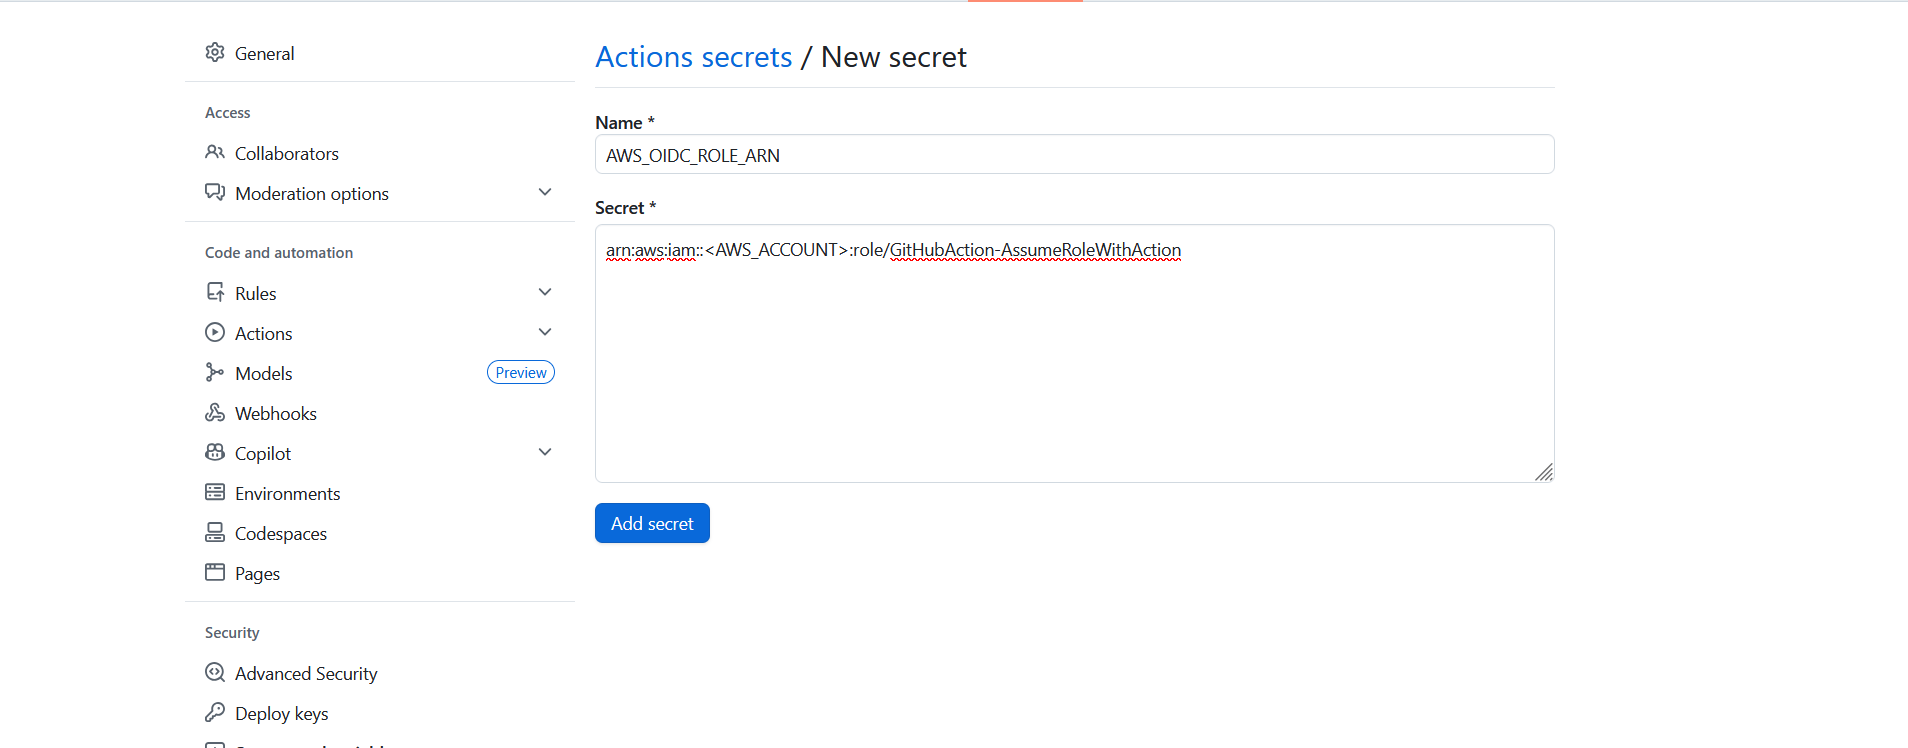
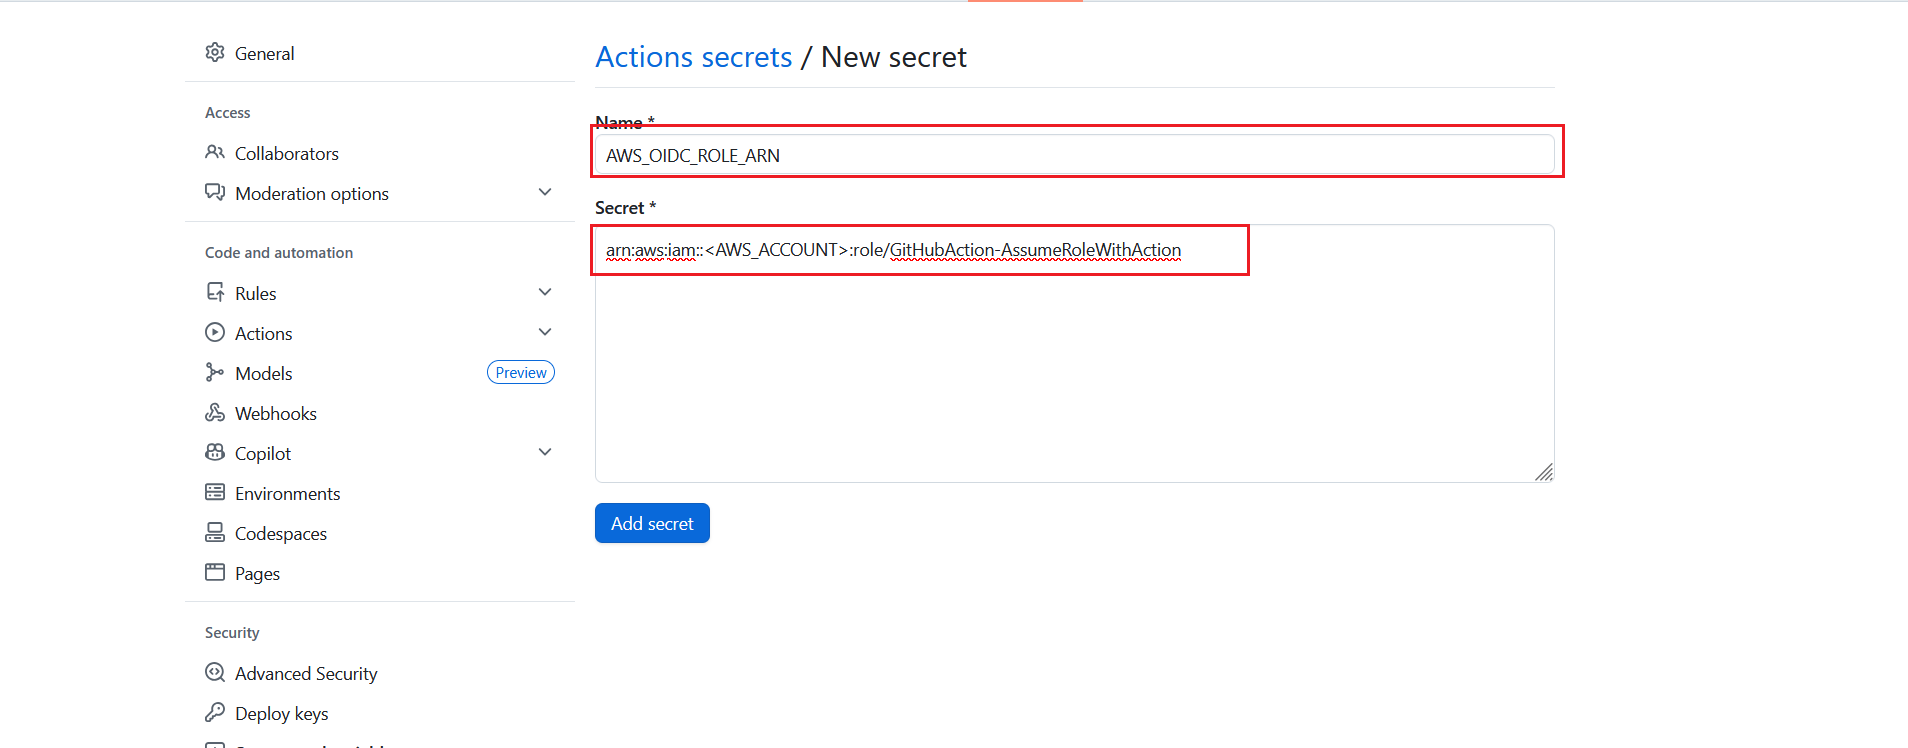
Update README with code formatting, additional images, and role ARN details for OIDC setup

diff --git a/README.md b/README.md
@@ -44,12 +44,13 @@ In this step,  you will setup the OpenID Provider which is GitHub to AWS.  We 
 if you don't have Github orgization you can use [Creating a new organization from scratch](https://docs.github.com/en/organizations/collaborating-with-groups-in-organizations/creating-a-new-organization-from-scratch)  to create one.
 
 3. On the Permissions page, search for `AmazonS3FullAccess` and select it  for this demo and select next to continue
-4.  In the next step enter  a role name, for this demo, enter GitHubAction-AssumeRoleWithAction. You can optionally add a description. Review and click create role. 
+4.  In the next step enter  a role name, for this demo, enter `GitHubAction-AssumeRoleWithAction`. You can optionally add a description. Review and click create role. 
   ![Create an IAM role with a trust policy that allows GitHub Actions to assume the role](/images/role-1.png)
 
 
 ### **Step 3:** Create a trust policy conditions to restrict access by repository, branch, or environment
-1. In the IAM console,  select the newly created role and choose Trust relationship tab and select edit trust policy.
+1. In the IAM console,  select the newly created role and choose Trust relationship tab and select edit trust policy. 
+2. Copy and paste this policy in editor and save the changes. 
 ```bash
 {
 	"Version": "2012-10-17",
@@ -57,7 +58,7 @@ if you don't have Github orgization you can use [Creating a new organization fro
 		{
 			"Effect": "Allow",
 			"Principal": {
-				"Federated": "arn:aws:iam::<AWS_ACCOUNT_ID>:oidc-provider/token.actions.githubusercontent.com"
+				"Federated": "arn:aws:iam::650251710981:oidc-provider/token.actions.githubusercontent.com"
 			},
 			"Action": "sts:AssumeRoleWithWebIdentity",
 			"Condition": {
@@ -72,21 +73,23 @@ if you don't have Github orgization you can use [Creating a new organization fro
 	]
 }
 ```
-save the changes. 
+
 
 ### **Step 4:Optional:** You can attach more permissions policies to the IAM role defining what AWS actions are allowed using the  least privilege principle.  
 
 ### **Step 5:**  Add the IAM Role  ARN  to GitHub repository as  secrets
-1. In your Github Account reate a repo or select and existing repo that you want to us . The repo i am using is  "Zero-Trust CI/CD: Using OIDC to Authenticate GitHub Actions to AWS".
+- 1. In your Github Account create a repo or select and existing repo that you want to us . The repo i am using is  "Zero-Trust CI/CD: Using OIDC to Authenticate GitHub Actions to AWS".
+![Add role ARN as github secrete step 1](/images/10.png)
 
-2. Select the repo settings  and  in the left menu and  select Secretes and variables. Choose Actions in the sub menu and click on the create new repositoy secret buttom. Add these details
+- 2. Select the repo settings  and  , in the left menu  select Secretes and variables. Choose Actions in the sub menu and click on  `New repositoy secret` buttom. Add these details
 Name: AWS_OIDC_ROLE_ARN
 Secret: arn:aws:iam::<AWS_ACCOUNT_ID>:role/GitHubAction-AssumeRoleWithAction. copy the role ARN and add it as a secrete. Your are now ready to use in in your workflows
+![Add role ARN as github secrete step 2](/images/11.png)
 
 ### **Step 6:**  Create a  workflow to use the role ARN and specify the AWS region
 In this next step, we will   validate the integration of OIDC with AWS. To do this we will create a workflow. Create this workflow 
 
-.github/workflows/create-s3-bucket.yml
+`.github/workflows/create-s3-bucket.yml`
 
 ```bash
 name: Create S3 Bucket with OIDC
@@ -95,28 +98,33 @@ on:
   workflow_dispatch:
 
 permissions:
-  id-token: write   # REQUIRED for OIDC
+  id-token: write
   contents: read
+  pull-requests: write
+  security-events: write
 
 jobs:
   create-bucket:
     runs-on: ubuntu-latest
 
     steps:
-      - name: Configure AWS credentials using OIDC
-        uses: aws-actions/configure-aws-credentials@v4
+      - name: Configure AWS credentials
+        uses: aws-actions/configure-aws-credentials@v5.1.0
         with:
-          role-to-assume: ${{ secrets.AWS_OIDC_ROLE_ARN }}
+          role-to-assume: ${{ secrets.AWS_OIDC_ROLE_ARN}}
+          role-session-name: GitHubAction-AssumeRoleWithAction
           aws-region: us-east-1
+
 
       - name: Create S3 bucket
         run: |
           aws s3api create-bucket \
-            --just-another-new-bucket-124 \
+            --bucket just-another-new-bucket-124 \
             --region us-east-1
 ```
 Test the  OIDC Connection  by running the workflow
-### **Step 7:**   Audit the role usage: Query CloudTrail logs
+![Workflow success 1 ](/images/workflow.png)
+![Workflow success 2 ](/images/bucket%20created.png )
 
 ## Conclusion
 Building a secure CI/CD pipeline forms a crucial part  of modern software development. Storing Long-lived credentials in CI/CD pipelines are bad security practices that is still been used by some teams. OIDC offers a better alternative of enhancing your workflows using  identity-based and  short-lived credentails. This approach reduce your attack surface and simplifies credentials management. If your pipelines still relies on stored AWS Accesss keys, the question is no longer “Why switch to OIDC?”
